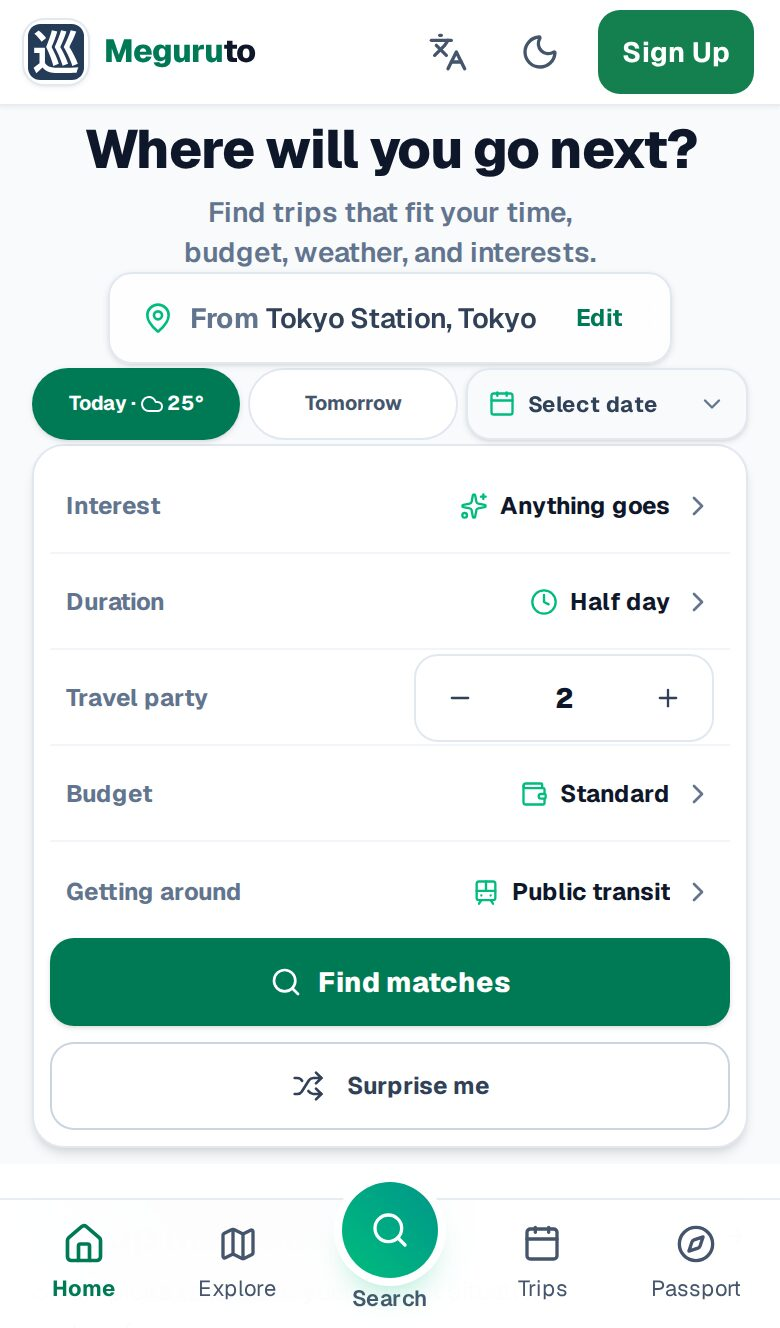
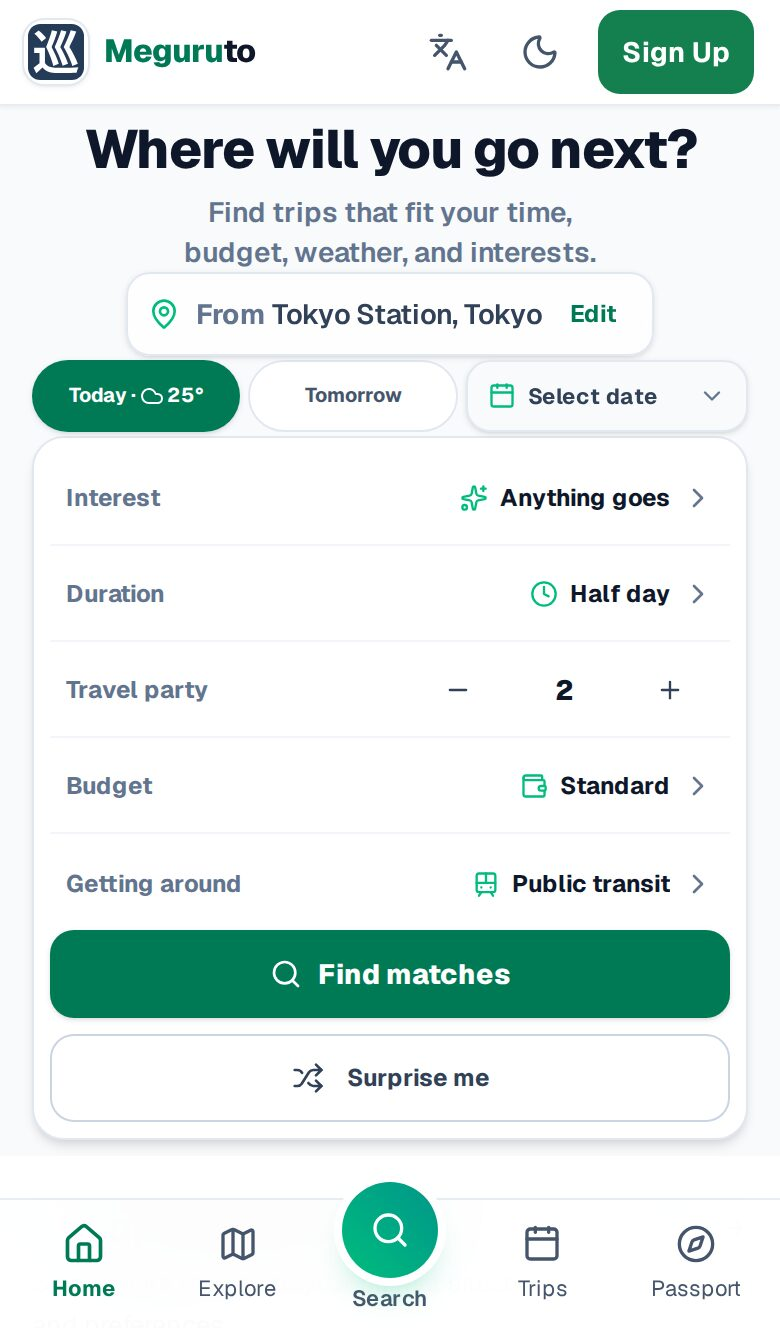
fix(ui): borderless party stepper and slimmer origin pill

diff --git a/src/features/home/components/HomePlanner.tsx b/src/features/home/components/HomePlanner.tsx
@@ -808,13 +808,13 @@ export const HomePlanner: React.FC<HomePlannerProps> = ({
               <span className="text-xs font-bold text-slate-500 dark:text-[hsl(var(--text-secondary))]">
                 {t("home.party")}
               </span>
-              <div className="grid h-11 w-[150px] grid-cols-[44px_1fr_44px] overflow-hidden rounded-xl border border-slate-200 dark:border-slate-700">
+              <div className="grid h-11 w-[150px] grid-cols-[44px_1fr_44px]">
                 <button
                   type="button"
                   aria-label={t("home.decreaseParty")}
                   disabled={partySize <= 1}
                   onClick={() => onPartySizeChange(Math.max(1, partySize - 1))}
-                  className="flex items-center justify-center text-slate-700 disabled:opacity-40 dark:text-slate-100"
+                  className="flex items-center justify-center rounded-lg text-slate-700 transition-colors hover:bg-slate-100 disabled:opacity-40 dark:text-slate-100 dark:hover:bg-slate-800"
                 >
                   <Minus className="h-3.5 w-3.5" />
                 </button>
@@ -829,7 +829,7 @@ export const HomePlanner: React.FC<HomePlannerProps> = ({
                   aria-label={t("home.increaseParty")}
                   disabled={partySize >= 8}
                   onClick={() => onPartySizeChange(Math.min(8, partySize + 1))}
-                  className="flex items-center justify-center text-slate-700 disabled:opacity-40 dark:text-slate-100"
+                  className="flex items-center justify-center rounded-lg text-slate-700 transition-colors hover:bg-slate-100 disabled:opacity-40 dark:text-slate-100 dark:hover:bg-slate-800"
                 >
                   <Plus className="h-3.5 w-3.5" />
                 </button>

diff --git a/src/shared/components/OriginLocationDisplay.tsx b/src/shared/components/OriginLocationDisplay.tsx
@@ -28,7 +28,7 @@ export function OriginLocationDisplay({
       : `${stationName}${prefectureName ? `, ${prefectureName}` : ""}`;
 
   return (
-    <div className="grid w-full min-w-0 grid-cols-[minmax(0,1fr)_auto] items-center gap-3 rounded-xl border border-slate-200 bg-white/70 px-4 py-1 shadow-sm backdrop-blur-md dark:border-slate-700 dark:bg-slate-900/70 sm:w-fit sm:max-w-full">
+    <div className="grid w-full min-w-0 grid-cols-[minmax(0,1fr)_auto] items-center gap-1.5 rounded-xl border border-slate-200 bg-white/70 px-2.5 py-0.5 shadow-sm backdrop-blur-md dark:border-slate-700 dark:bg-slate-900/70 sm:w-fit sm:max-w-full">
       <div className="flex min-w-0 items-center gap-2">
         <MapPin className="size-4 shrink-0 text-emerald-500" />
         <div className="min-w-0">
